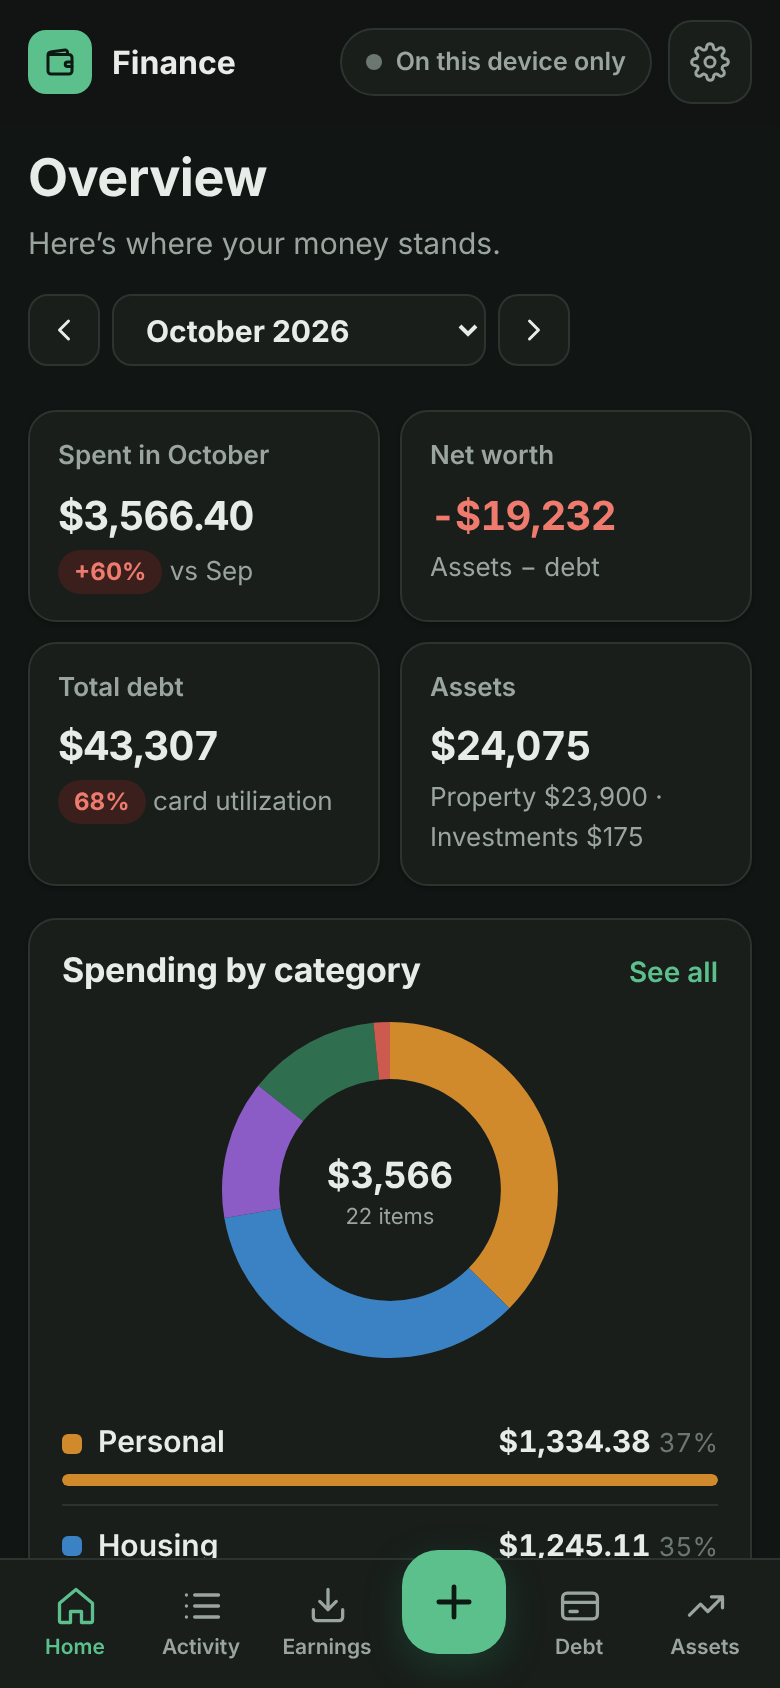
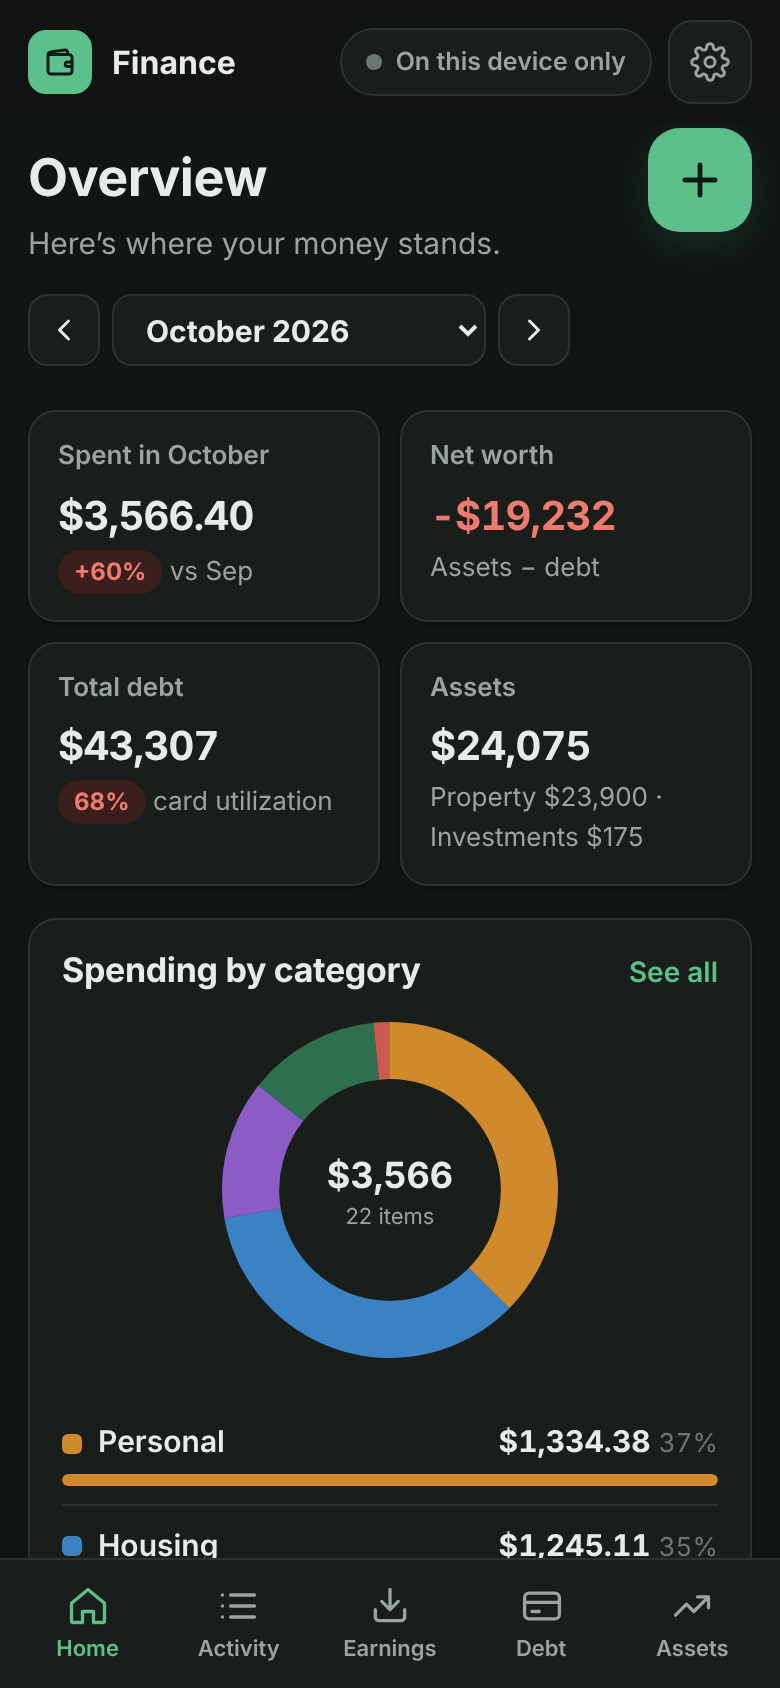
mobile view fixed

diff --git a/js/app.js b/js/app.js
@@ -6,7 +6,7 @@ import * as store from "./store.js";
 import * as auth from "./auth.js";
 import * as drive from "./drive.js";
 import { syncNow } from "./sync.js";
-import { initSheet, closeSheet, toast } from "./ui.js";
+import { initSheet, closeSheet, openSheet, toast } from "./ui.js";
 import { timeAgo } from "./util.js";
 import * as quotes from "./quotes.js";
 
@@ -18,7 +18,7 @@ import { cardsView, cardFormView, cardEditView, cardRecordView, cardActivityEdit
 import { assetsView, assetFormView, assetValueView, stockFormView, cashFormView } from "./views/assets.js";
 import { settingsView, categoryFormView, categoryDeleteView, subcategoryFormView, subcategoryDeleteView, accountFormView, csvImportView, finnhubView } from "./views/settings.js";
 
-export const APP_VERSION = "1.1.0";
+export const APP_VERSION = "1.1.1";
 const SYNC_DELAY_MS = 2000;
 
 // ------------------------------------------------------------- routes
@@ -90,7 +90,6 @@ const $view = document.getElementById("view");
 export function render({ keepScroll = false } = {}) {
     route = currentRoute();
     document.querySelectorAll("[data-nav]").forEach((el) => el.classList.toggle("active", el.dataset.nav === route.nav));
-    document.querySelector(".tab-add")?.classList.toggle("active", route.nav === "add");
     const y = window.scrollY;
     try {
         route.view({ el: $view, params: route.params, query: route.query, rerender: () => render({ keepScroll: true }) });
@@ -98,8 +97,50 @@ export function render({ keepScroll = false } = {}) {
         console.error(error);
         $view.innerHTML = `<section class="card"><div class="empty"><strong>Something went wrong on this screen</strong>${String(error.message || error)}</div></section>`;
     }
+    if (!route.isForm) addQuickAddButton();
     window.scrollTo(0, keepScroll ? y : 0);
     renderChip();
+}
+
+// ------------------------------------------------------------- quick add (+)
+// On phones the + sits on the title row of every main screen (the tab bar
+// holds the five sections). It opens a short menu of the common entries.
+
+function addQuickAddButton() {
+    const head = $view.querySelector(".page-head");
+    if (!head || head.querySelector(".head-add")) return;
+    head.classList.add("has-add");
+    head.insertAdjacentHTML("beforeend",
+        `<button type="button" class="head-add" aria-label="Add" aria-haspopup="dialog"><svg width="26" height="26"><use href="#i-plus"/></svg></button>`);
+    const button = head.querySelector(".head-add");
+    button.addEventListener("click", openQuickAdd);
+    // Centre it on the page title (some pages have a back link above it).
+    const h1 = head.querySelector("h1");
+    if (h1 && button.offsetHeight) {
+        const headTop = head.getBoundingClientRect().top;
+        const box = h1.getBoundingClientRect();
+        button.style.top = `${Math.round(box.top - headTop + box.height / 2 - button.offsetHeight / 2)}px`;
+    }
+}
+
+function openQuickAdd() {
+    const cards = store.all("cards").length;
+    const loans = store.all("loans");
+    const items = [
+        ["#/add", "i-list", "Add spending", "A purchase, bill or other expense"],
+        ["#/earning/new", "i-income", "Add earning", "Paycheck, side income, interest or refund"],
+        cards ? ["#/record", "i-card", "Record card charge or payment", "Updates a credit card balance"]
+              : ["#/card/new", "i-card", "Add a credit card", "Track balances and utilization"],
+        ...(loans.length ? [[loans.length === 1 ? `#/loan/${encodeURIComponent(loans[0].id)}/pay` : "#/loans", "i-chart", "Record loan payment", loans.length === 1 ? loans[0].name : "Choose a loan"]] : []),
+    ];
+    // What you're looking at goes first.
+    if (route?.nav === "earnings") items.unshift(items.splice(1, 1)[0]);
+    if (route?.nav === "debt") items.unshift(items.splice(2, 1)[0]);
+    openSheet("Add", `<ul class="list quick-add">${items.map(([href, icon, title, sub]) => `
+        <li><a class="row" href="${href}">
+            <span class="dot quick-icon" aria-hidden="true"><svg width="20" height="20"><use href="#${icon}"/></svg></span>
+            <span class="row-main"><span class="row-title" style="display:block">${title}</span><span class="row-sub" style="display:block">${sub}</span></span>
+        </a></li>`).join("")}</ul>`);
 }
 
 export function navigate(hash, { replace = false } = {}) {

diff --git a/styles.css b/styles.css
@@ -694,7 +694,7 @@ button.link:hover { background: none; text-decoration: underline; }
 .boot { display: grid; place-items: center; min-height: 40vh; color: var(--muted); }
 
 /* earnings */
-@media (max-width: 899px) { .tabbar { grid-template-columns: repeat(6, 1fr); } .tab { font-size: 10.5px; } }
+@media (max-width: 899px) { .tabbar { grid-template-columns: repeat(5, 1fr); } }
 .trend.dual .pair { display: flex; align-items: flex-end; justify-content: center; gap: 2px; width: 100%; height: 100%; }
 .trend.dual .col { max-width: 15px; flex: 1; }
 .trend.dual .col.earned { background: color-mix(in srgb, var(--accent) 45%, var(--track)); }
@@ -740,3 +740,19 @@ button.link:hover { background: none; text-decoration: underline; }
 .site-footer { display: flex; justify-content: space-between; flex-wrap: wrap; gap: 8px 16px;
   max-width: 1080px; width: 100%; margin: 0 auto; padding: 20px 20px calc(24px + env(safe-area-inset-bottom));
   border-top: 1px solid var(--border); color: var(--muted); font-size: 13px; }
+
+/* quick add (+) on the title row — phones only; desktop has the sidebar button */
+.head-add { display: none; }
+@media (max-width: 899px) {
+  .page-head.has-add { position: relative; }
+  .page-head.has-add > div:first-child { padding-right: 64px; }
+  .head-add {
+    display: grid; place-items: center; position: absolute; top: 0; right: 0;
+    width: 52px; height: 52px; min-height: 52px; padding: 0; border-radius: 16px;
+    background: var(--accent); color: var(--on-accent);
+    box-shadow: 0 6px 18px rgb(31 107 71 / 30%);
+  }
+}
+.quick-add .row { color: inherit; text-decoration: none; }
+.quick-add .row:hover { background: var(--surface-2); }
+.quick-icon { background: var(--accent-soft); color: var(--accent); border-radius: 12px; width: 40px; height: 40px; }

diff --git a/index.html b/index.html
@@ -70,7 +70,6 @@
         <a class="tab" data-nav="overview" href="#/"><svg><use href="#i-home"/></svg>Home</a>
         <a class="tab" data-nav="activity" href="#/activity"><svg><use href="#i-list"/></svg>Activity</a>
         <a class="tab" data-nav="earnings" href="#/earnings"><svg><use href="#i-income"/></svg>Earnings</a>
-        <a class="tab-add" href="#/add" aria-label="Add transaction"><svg><use href="#i-plus"/></svg></a>
         <a class="tab" data-nav="debt" href="#/cards"><svg><use href="#i-card"/></svg>Debt</a>
         <a class="tab" data-nav="assets" href="#/assets"><svg><use href="#i-chart"/></svg>Assets</a>
     </nav>

diff --git a/sw.js b/sw.js
@@ -2,7 +2,7 @@
 // it opens instantly, even with no signal) and refreshed in the background.
 // Google requests always go to the network.
 
-const CACHE = "finance-drive-v3"; // bump on every release
+const CACHE = "finance-drive-v4"; // bump on every release
 const SHELL = [
     "./",
     "index.html",
